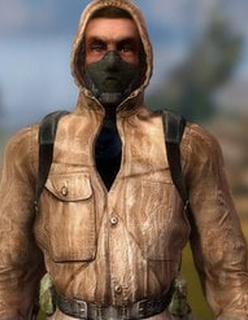
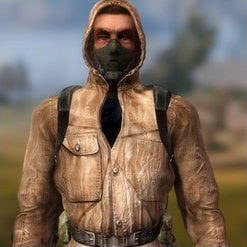
Use native 1:1 faction skins without forced resize
Keep faction avatars at original square dimensions from source JPGs
and only scale down on the profile card when they exceed the slot.

diff --git a/scripts/import_faction_skins.py b/scripts/import_faction_skins.py
@@ -8,8 +8,7 @@
 Цифра = звание:
   1 Новичек, 2 Опытный, 3 Ветеран, 4 Легенда
 
-Картинки подгоняются под слот профиля 248×320 (как текущая аватарка),
-чтобы карточка не съезжала.
+Скины сохраняются в исходном 1:1 размере без принудительного ресайза.
 
 Пример:
   python3 scripts/import_faction_skins.py "/path/to/скины"
@@ -30,16 +29,12 @@ sys.path.insert(0, str(PROJECT_ROOT))
 from app.avatar_render import (  # noqa: E402
     FACTION_AVATAR_DIR,
     FACTION_SLUGS,
-    _fit_avatar_image,
+    _native_avatar_image,
     _normalize_token,
 )
 
 IMAGE_SUFFIXES = {".png", ".jpg", ".jpeg", ".webp"}
 TIER_RE = re.compile(r"(\d+)$")
-
-# Целевой размер как на карточке профиля (profile_card.py).
-TARGET_WIDTH = 248
-TARGET_HEIGHT = 320
 
 # Канонические slug-папки в assets/avatars/factions/
 CANONICAL_SLUG: dict[str, str] = {
@@ -55,7 +50,6 @@ def _faction_for_token(token: str) -> str | None:
     for faction, slugs in FACTION_SLUGS.items():
         for slug in slugs:
             if normalized == _normalize_token(slug) or normalized.startswith(_normalize_token(slug)):
-                # Если это просто имя фракции без цифры — ок.
                 slug_n = _normalize_token(slug)
                 if normalized == slug_n:
                     return faction
@@ -100,7 +94,6 @@ def _iter_source_images(source: Path) -> list[tuple[str, int, Path]]:
             return
         faction = folder_faction or _faction_for_token(path.stem)
         if faction is None and folder_faction is None:
-            # Попробуем по имени родительской папки.
             faction = _faction_for_token(path.parent.name)
         if faction is None:
             return
@@ -113,12 +106,10 @@ def _iter_source_images(source: Path) -> list[tuple[str, int, Path]]:
         consider(source)
         return results
 
-    # Файлы в корне и во вложенных папках группировок.
     for path in sorted(source.rglob("*")):
         if not path.is_file():
             continue
         folder_faction = None
-        # Если лежит в папке Долг/dolg/...
         for parent in path.parents:
             if parent == source:
                 break
@@ -148,12 +139,13 @@ def import_skins(source: Path, *, dry_run: bool = False) -> int:
             continue
         out_dir.mkdir(parents=True, exist_ok=True)
         try:
-            source_img = Image.open(path).convert("RGBA")
+            source_img = Image.open(path)
         except OSError as exc:
             print(f"  пропуск (не открылось): {exc}")
             continue
-        fitted = _fit_avatar_image(source_img, TARGET_WIDTH, TARGET_HEIGHT)
-        fitted.save(out_path, format="PNG")
+        native = _native_avatar_image(source_img)
+        print(f"  размер: {native.width}×{native.height}")
+        native.save(out_path, format="PNG")
         imported += 1
     return imported
 
@@ -172,7 +164,7 @@ def main() -> int:
         print(f"Путь не найден: {source}")
         return 1
     count = import_skins(source, dry_run=args.dry_run)
-    print(f"Готово: {count} скин(ов). Целевой размер: {TARGET_WIDTH}×{TARGET_HEIGHT}")
+    print(f"Готово: {count} скин(ов). Сохранены в исходном 1:1 размере.")
     return 0 if count else 2
 
 

diff --git a/app/avatar_render.py b/app/avatar_render.py
@@ -232,6 +232,20 @@ def _avatar_candidates(tier: int, faction: str | None = None) -> tuple[Path, ...
     return tuple(unique)
 
 
+def _native_avatar_image(source: Image.Image) -> Image.Image:
+    """Вернуть скин группировки в исходном 1:1 размере без масштабирования."""
+    img = source.convert("RGBA")
+    width, height = img.size
+    if width <= 0 or height <= 0:
+        return img
+    if width == height:
+        return img
+    side = min(width, height)
+    left = (width - side) // 2
+    top = (height - side) // 2
+    return img.crop((left, top, left + side, top + side))
+
+
 def _fit_avatar_image(source: Image.Image, width: int, height: int) -> Image.Image:
     """Обрезать/масштабировать в точный слот (cover): один размер, без полей.
 
@@ -284,6 +298,8 @@ def _load_avatar_asset(
             source = Image.open(resolved).convert("RGBA")
         except OSError:
             continue
+        if faction:
+            return _native_avatar_image(source)
         return _fit_avatar_image(source, width, height)
     return None
 

diff --git a/README.md b/README.md
@@ -16,11 +16,11 @@
   - используется классический стиль аватара (без переключения)
   - PNG-аватары подхватываются автоматически:
     - общие: `assets/avatars/stalker_t1..t4.png`
-    - по группировке + званию: `assets/avatars/factions/<faction>/1..4.png`
+    - по группировке + званию: `assets/avatars/factions/<faction>/1..4.png` (исходный 1:1 размер)
       (например `Долг1` = Новичек Долга, `Свобода3` = Ветеран Свободы)
     - можно положить исходную папку в `assets/avatars/скины/` или импортировать:
       `python3 scripts/import_faction_skins.py "/path/to/скины"`
-    - картинки автоматически обрезаются/масштабируются в слот профиля **248×320** (без полей)
+    - на карточке профиля большие скины автоматически уменьшаются под слот
     - fallback: `assets/avatars/stalker_default.png`
    - визуальная "ава по снаряге": образ персонажа меняется вместе с улучшением брони/шлема
    - система скинов по прогрессу снаряги:
@@ -121,7 +121,7 @@ chmod +x start.sh
 - `app/avatar_render.py` — аватар по группировке + званию (рейтингу)
 - `assets/avatars/stalker_t1..t4.png` — общие шаблоны аватаров (fallback)
 - `assets/avatars/factions/` — скины по группировкам (`dolg`, `svoboda`, `neutraly`, `bandity`)
-- `scripts/import_faction_skins.py` — импорт папки «скины» с подгонкой до 248×320
+- `scripts/import_faction_skins.py` — импорт папки «скины» в исходном 1:1 размере
 - `run.py` — точка входа
 
 ## Важно для Railway (сохранение персонажа)

diff --git a/assets/avatars/factions/README.md b/assets/avatars/factions/README.md
@@ -29,17 +29,11 @@ assets/avatars/скины/Свобода2.png
 …
 ```
 
-или
-
-```
-assets/avatars/скины/Долг/Долг1.png
-```
-
 ## Импорт с рабочего стола
 
 ```bash
 python3 scripts/import_faction_skins.py "/path/to/скины"
 ```
 
-Скрипт подгоняет картинки под слот профиля **248×320** (cover-обрезка
-по центру горизонтально, с прижатием к низу вертикально).
+Скины сохраняются в **исходном 1:1 размере** (без принудительного 248×320).
+На карточке профиля они автоматически уменьшаются, если не помещаются в слот.
